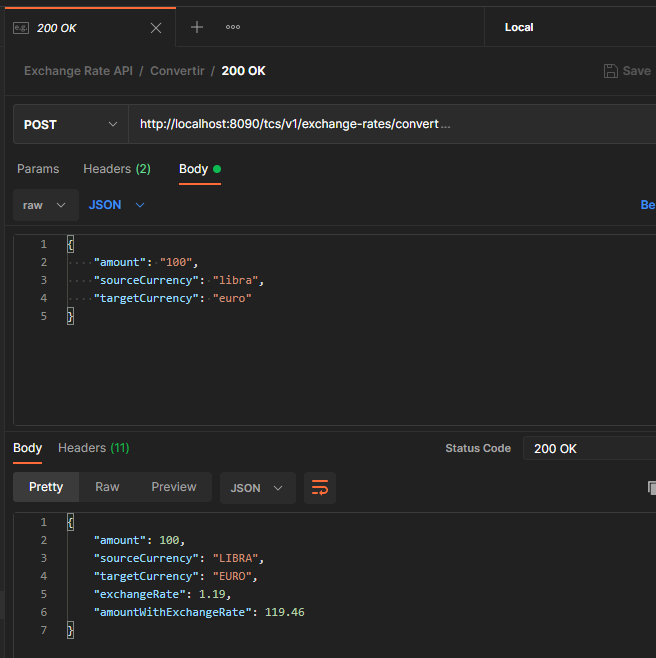
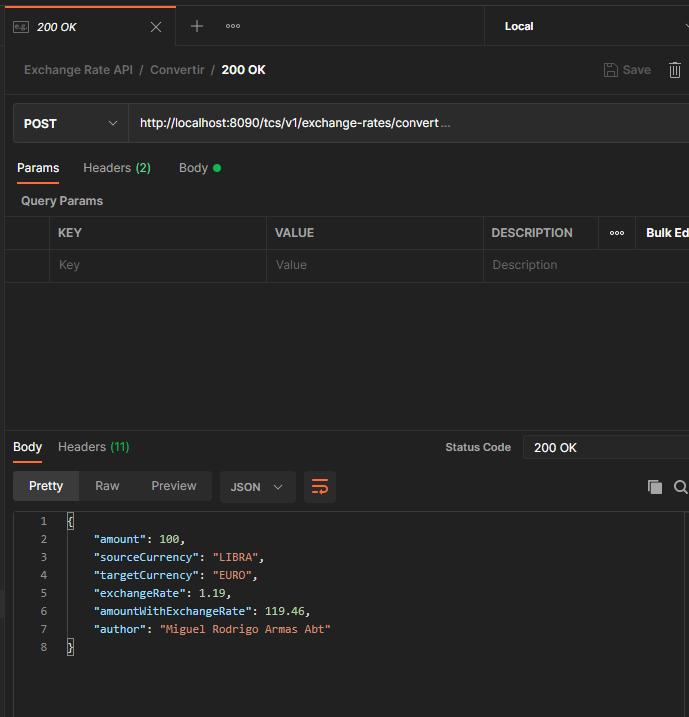
Se agregó el nombre de autor en la respuesta del endpoint de conversión.

diff --git a/src/main/java/com/tcs/exchangerate/model/dto/ConversionResponse.java b/src/main/java/com/tcs/exchangerate/model/dto/ConversionResponse.java
@@ -18,4 +18,5 @@ public class ConversionResponse {
     private String targetCurrency;
     private Double exchangeRate;
     private Double amountWithExchangeRate;
+    private String author = "Miguel Rodrigo Armas Abt";
 }
